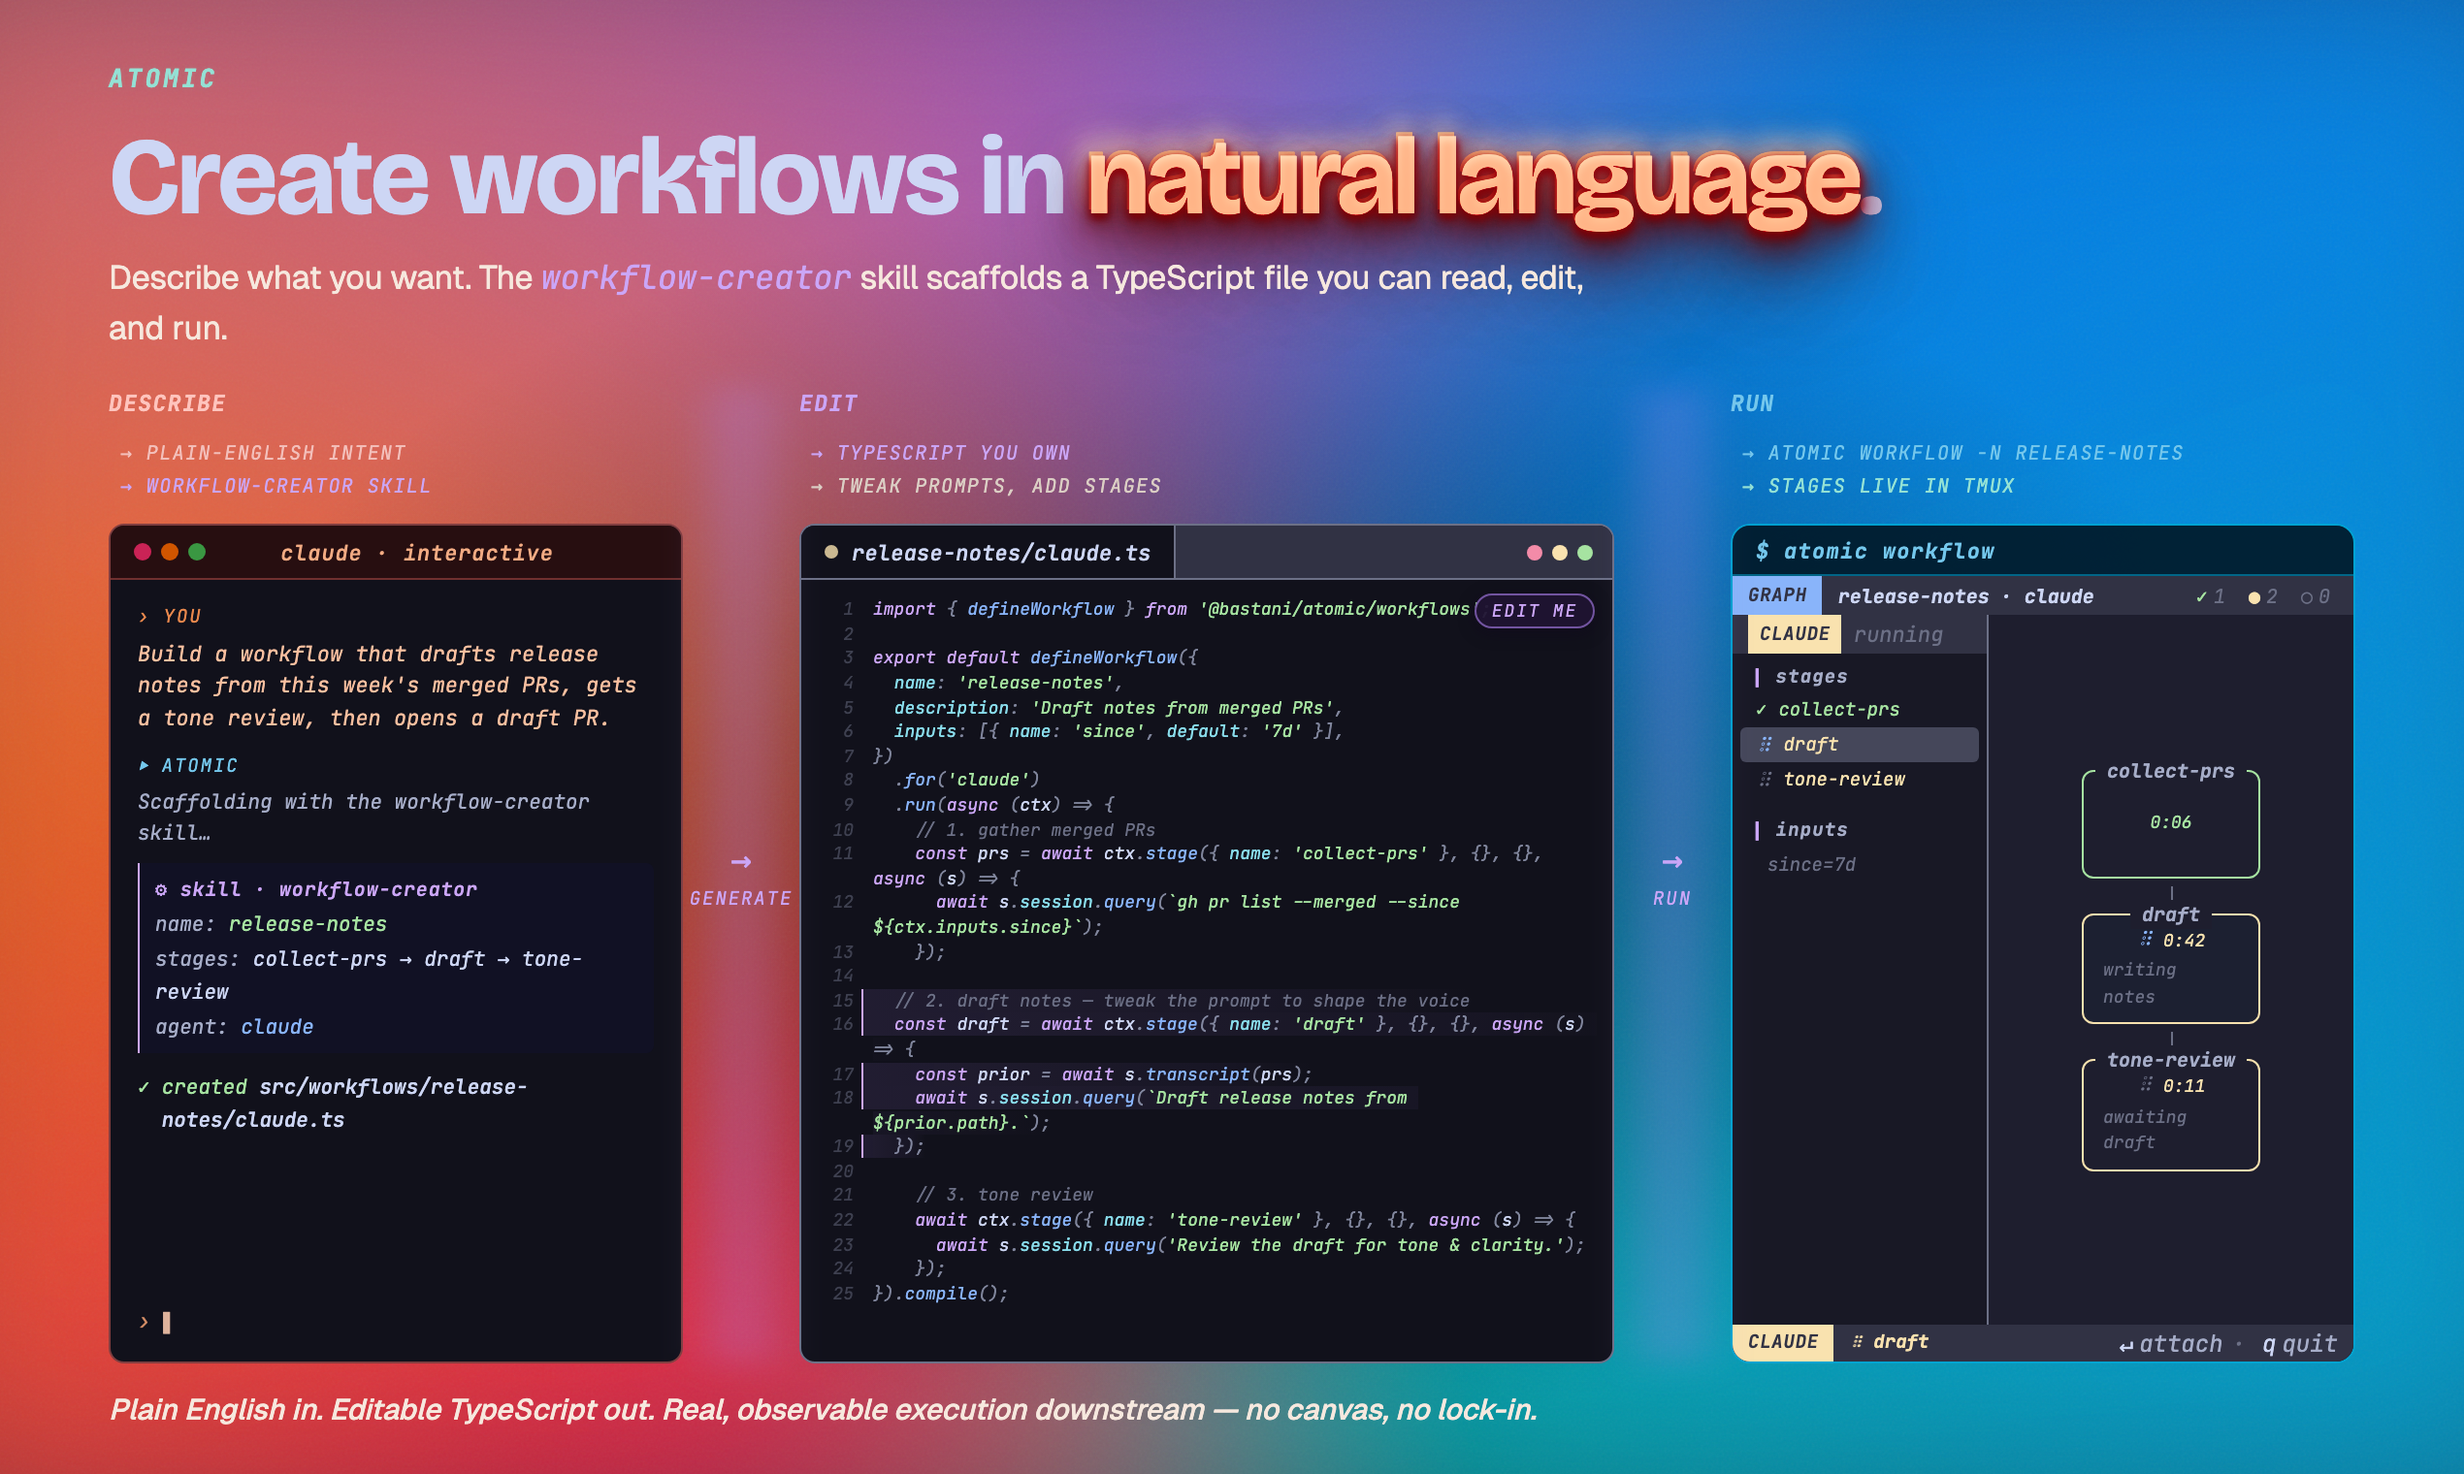
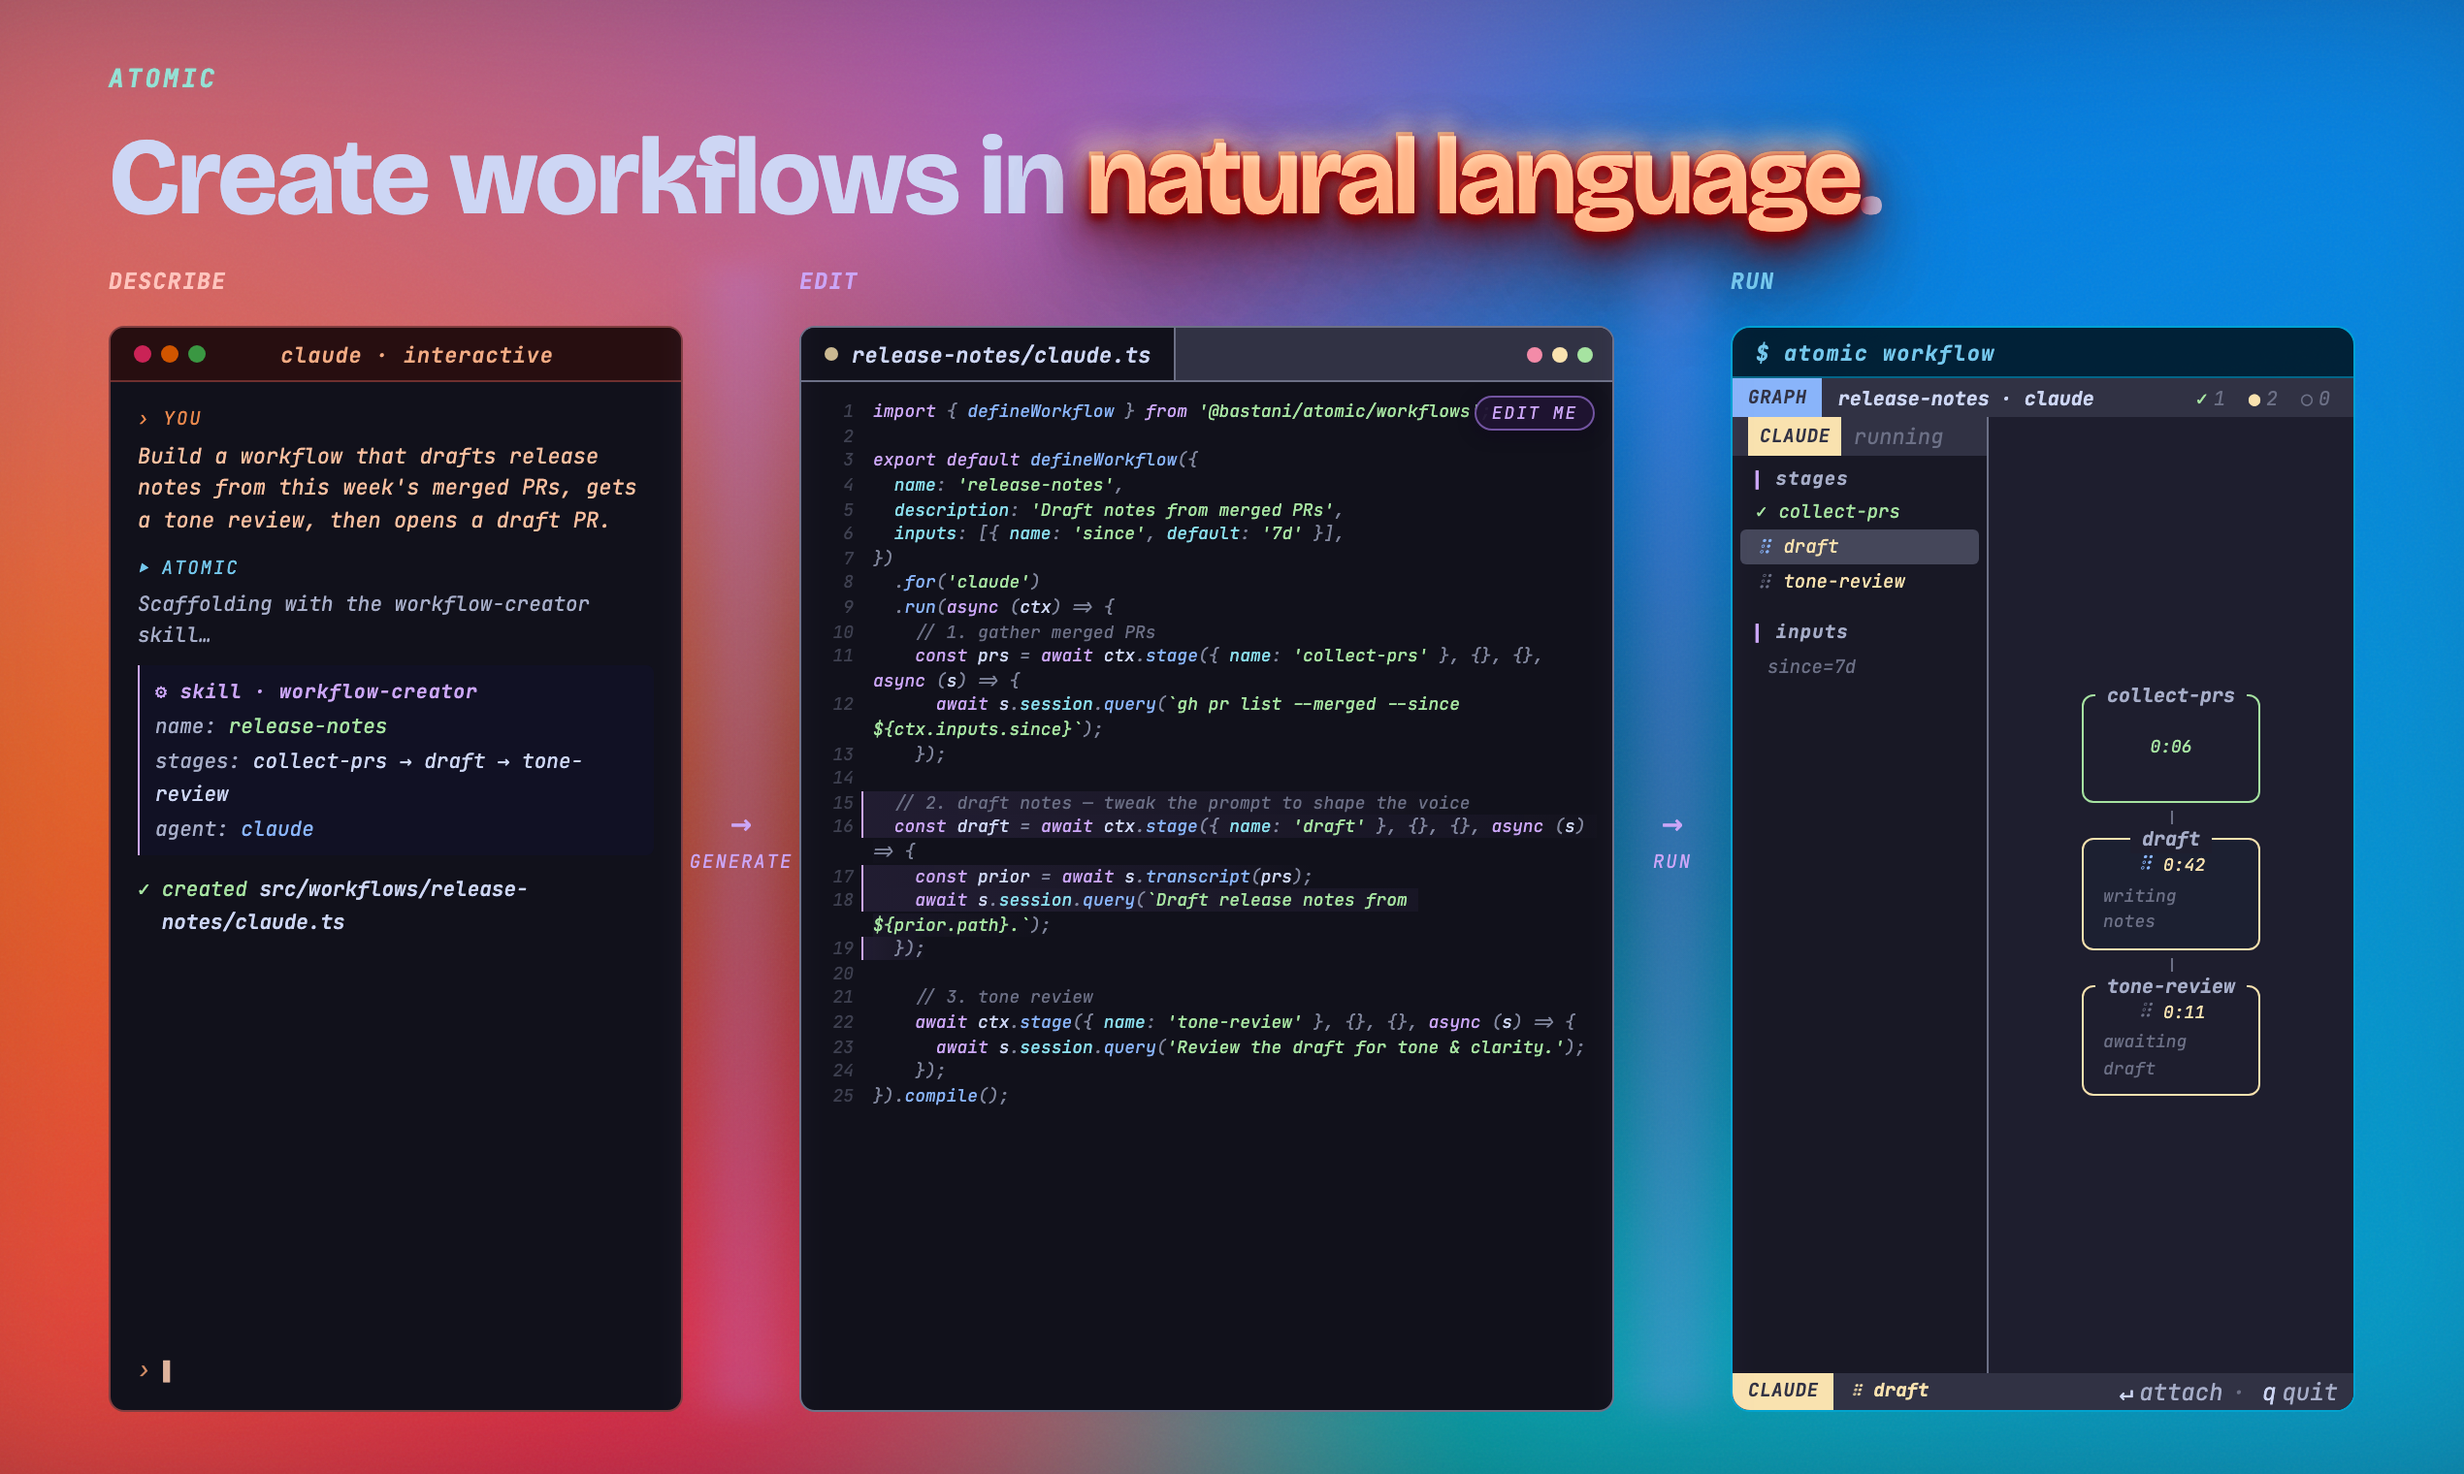
feat(product-hunt): lean structural edit of slide 07 (Skill Creator)
Strip subhead, per-panel descriptions, and footer caption from slide 07.
Keep headline + DESCRIBE/EDIT/RUN panel labels so the 3-panel left-to-right
narrative reads visually without text crutches.

diff --git a/assets/product-hunt/slides/07-workflow-skill-creator.html b/assets/product-hunt/slides/07-workflow-skill-creator.html
@@ -413,7 +413,7 @@
     <div class="film-grain"></div>
 
     <!-- Content layer -->
-    <div class="slide__content" style="padding: 32px 56px 24px; display: flex; flex-direction: column;">
+    <div class="slide__content" style="padding: 32px 56px 32px; display: flex; flex-direction: column;">
 
       <!-- Wordmark -->
       <div style="display: flex; align-items: center; margin-bottom: 14px;">
@@ -428,7 +428,7 @@
         line-height: 1.04;
         letter-spacing: -0.025em;
         color: var(--mocha-text);
-        margin-bottom: 10px;
+        margin-bottom: 16px;
         position: relative;
         z-index: 2;
         max-width: 960px;
@@ -436,11 +436,6 @@
         Create workflows in
         <span class="bubble-text bubble-text--warm" data-text="natural language">natural language</span>.
       </h1>
-
-      <!-- Subhead -->
-      <p class="subhead" style="font-size: 17px; max-width: 760px; margin-bottom: 18px; position: relative; z-index: 2; color: var(--text-on-gradient);">
-        Describe what you want. The <code style="font-family:var(--font-mono);color:var(--mocha-mauve);">workflow-creator</code> skill scaffolds a TypeScript file you can read, edit, and run.
-      </p>
 
       <!-- THREE-PANEL DIAGRAM -->
       <div style="
@@ -458,11 +453,7 @@
              PANEL 1 — PROMPT / agent chat
              ============================================================ -->
         <div style="flex: 0 0 296px; display: flex; flex-direction: column; gap: 6px; min-width: 0;">
-          <div class="col-header" style="color: oklch(88% 0.08 25);">Describe</div>
-          <div style="display: flex; flex-direction: column; gap: 1px; margin-bottom: 4px;">
-            <div class="col-sublabel" style="color: oklch(85% 0.06 25);">→ plain-english intent</div>
-            <div class="col-sublabel" style="color: var(--mocha-mauve);">→ workflow-creator skill</div>
-          </div>
+          <div class="col-header" style="color: oklch(88% 0.08 25); margin-bottom: 6px;">Describe</div>
 
           <div class="prompt-pane">
             <div class="prompt-pane__titlebar">
@@ -521,11 +512,7 @@
              PANEL 2 — CODE pane (editable)
              ============================================================ -->
         <div style="flex: 1; display: flex; flex-direction: column; gap: 6px; min-width: 0; position: relative;">
-          <div class="col-header" style="color: var(--mocha-mauve);">Edit</div>
-          <div style="display: flex; flex-direction: column; gap: 1px; margin-bottom: 4px;">
-            <div class="col-sublabel" style="color: var(--mocha-mauve);">→ TypeScript you own</div>
-            <div class="col-sublabel" style="color: var(--text-on-gradient-dim);">→ tweak prompts, add stages</div>
-          </div>
+          <div class="col-header" style="color: var(--mocha-mauve); margin-bottom: 6px;">Edit</div>
 
           <div style="position: relative; display: flex; flex-direction: column; flex: 1; min-height: 0;">
             <div class="edit-pill">edit me</div>
@@ -562,11 +549,7 @@
              PANEL 3 — RUNNING TUI
              ============================================================ -->
         <div style="flex: 0 0 322px; display: flex; flex-direction: column; gap: 6px; min-width: 0;">
-          <div class="col-header" style="color: var(--cool-sapphire);">Run</div>
-          <div style="display: flex; flex-direction: column; gap: 1px; margin-bottom: 4px;">
-            <div class="col-sublabel" style="color: var(--cool-sapphire);">→ atomic workflow -n release-notes</div>
-            <div class="col-sublabel" style="color: var(--cool-teal);">→ stages live in tmux</div>
-          </div>
+          <div class="col-header" style="color: var(--cool-sapphire); margin-bottom: 6px;">Run</div>
 
           <div class="tui-wrap">
             <div class="tui-wrap__header">
@@ -696,20 +679,6 @@
       </div>
       <!-- END THREE-PANEL DIAGRAM -->
 
-      <!-- Bottom caption -->
-      <p style="
-        font-family: var(--font-body);
-        font-size: 15px;
-        font-style: italic;
-        font-weight: 500;
-        color: var(--text-on-gradient);
-        margin-top: 14px;
-        position: relative;
-        z-index: 2;
-        max-width: 920px;
-      ">
-        Plain English in. Editable TypeScript out. Real, observable execution downstream — no canvas, no lock-in.
-      </p>
 
     </div>
   </div>
